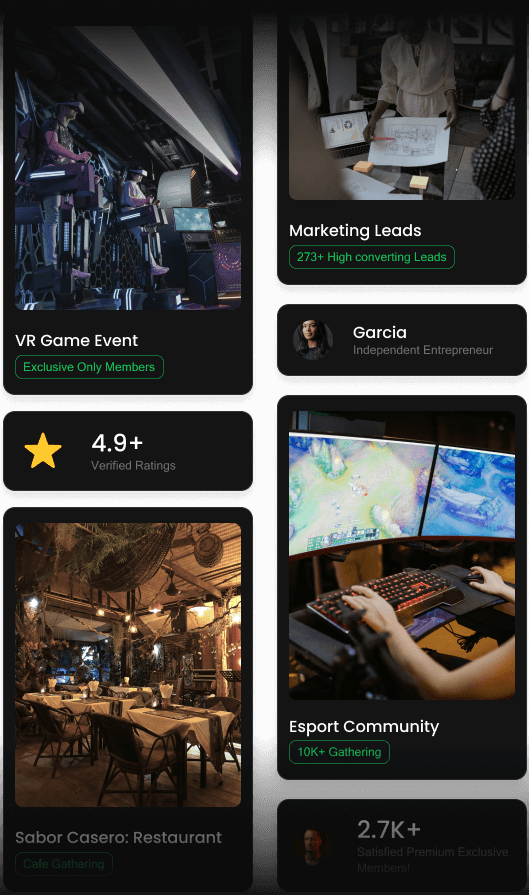
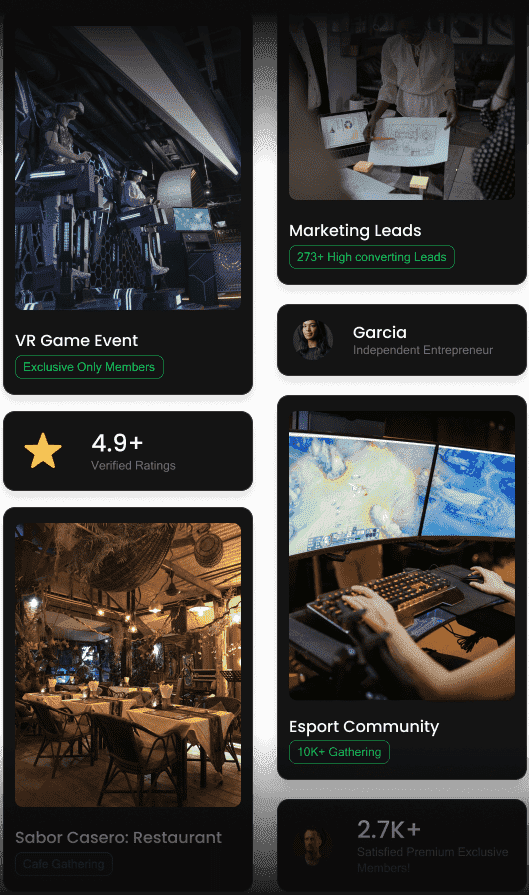
images

diff --git a/react-webapp/src/components/ImagesSection.jsx b/react-webapp/src/components/ImagesSection.jsx
@@ -2,39 +2,42 @@ import React from 'react'
 import {Image1,Image2,Image3,Image4} from '../images'
 export default function ImagesSection() {
   return (
-    <div className="flex h-[80vh] flex-col md:flex-row stify-between gap-6 px-10">
-   <div>
-   <div className="shadow-lg border  border-gray-400 p-1 rounded-mdp-4 relative">
+    <div className="flex flex-col lg:flex-row stify-between gap-6 px-10">
+   {/* <div> */}
+   <div className="shadow-lg   p-1 rounded-md relative">
       <div className="absolute bottom-0 left-0 bg-black bg-opacity-75 p-2 z-10">
-        <h1 className="text-md  font-bold ml-3">Embrace the Experience</h1>
+        <h1 className="text-md font-bold ml-3">Embrace the Experience</h1>
         <p className='p-2 font-sans text-[13px]'>
-        Join us for intellectual conversations in our exclusive chat rooms and memorable annual events. Start your journey with Exclusive Room today and step into a world of glamour, intellect, and unforgettable experiences.
+          Join us for intellectual conversations in our exclusive chat rooms and memorable annual events. Start your journey with Exclusive Room today and step into a world of glamour, intellect, and unforgettable experiences.
         </p>
       </div>
-      <img src={Image1} className='border h-full w-full border-gray-500 shadow-2xl rounded-xl' />
+      <div className="lg:w-[450px] h-full">
+        <img src={Image1} className=" h-full drop-shadow-2xl object-cover rounded-2xl" />
+      </div>
     </div>
-   </div>
-    <div className="">
-      <div className="shadow-lg border border-gray-400 p-1 rounded-md relative mb-4">
+   {/* </div> */}
+    <div className="  ">
+   
+       <div className="shadow-lg  p-1 rounded-md relative mb-4">
         <div className="absolute bottom-0 left-0 bg-black bg-opacity-75 p-2 z-10">
         <p className='p-2 font-sans text-[13px]'>
         Our platform promises state-of-the-art security and an easy-to-navigate design. You can converse freely and fearlessly, assured that your information and privacy stay well-protected.
         </p>
         </div>
 
-        <img src={Image3} className="rounded-lg" />
-      </div>
-      <div className="shadow-lg border border-gray-400 p-1 rounded-md  relative">
+        <img src={Image3} className="rounded-lg " />
+      </div> 
+    <div className="shadow-lg  p-1 rounded-2xl  relative">
         <div className="absolute bottom-0 left-0 bg-black bg-opacity-75 p-2 z-10">
         <p className='p-2 font-sans text-[13px]'>
         We understand how important it is to stay connected and grow. Our platform allows you to meet with individuals from various backgrounds and industries, providing avenues for networking and knowledge sharing.
         </p>
         
         </div>
-        <img src={Image2} className="filter grayscale rounded-lg" />
-      </div>
+        <img src={Image2} className="object-cover filter grayscale rounded-2xl" />
+     </div>
     </div>
-    <div className="shadow-lg border border-gray-400 p-1 rounded-lg relative">
+    <div className="shadow-lg p-1 rounded-lg relative">
       <div className="absolute bottom-0 left-0 bg-black bg-opacity-75 p-2 z-10">
         <h1 className="text-lg font-bold ml-2">
           The Grandeur of Our Annual Events
@@ -43,7 +46,7 @@ export default function ImagesSection() {
         In this exclusive club, we don’t just stop at chats. Exclusive Room holds an annual event, giving you an opportunity to engage in a delightful blend of entertainment and learning with individuals from across the world.
         </p>
       </div>
-      <img src={Image4} />
+      <img src={Image4} className='rounded-2xl'  />
     </div>
   </div>
   )

diff --git a/react-webapp/src/components/HeroSection.jsx b/react-webapp/src/components/HeroSection.jsx
@@ -1,8 +1,6 @@
 import React from 'react'
 import {FiverStars,Avatargroup, nextIcons,arrowIcon, fram1Image,fram2Image,monyImage} from '../images'
 import { AnimatedTooltip } from "../components/ui/animated-tooltip";
-import { DirectionAwareHover } from "../components/ui/direction-aware-hover";
-
 
 
 import {   FiverStars1,
@@ -10,7 +8,6 @@ import {   FiverStars1,
   FiverStars3,
   FiverStars4,
   FiverStars5,FiverStars6} from '../images'
-import { TypewriterEffectSmooth } from './ui/typewriter-effect';
 
 
 
@@ -64,21 +61,6 @@ const people = [
 
 
 
-  const words = [
-    {
-      text: "Different",
-      className: "text-white text-5xl md:text-7xl font-bold mb-4",
-
-    },
-    {
-      text: "Social",
-      className: "text-white text-5xl md:text-7xl font-bold mb-4",
-
-    },
-
-  ];
- 
-
 
 
 export default function HeroSection() {
@@ -97,8 +79,7 @@ export default function HeroSection() {
       <div className="bg-gray-800 opacity-40"></div>
     </div>
     <div className="container mx-auto px-4 py-20 md:w-1/2 z-20">
-    <TypewriterEffectSmooth cursorClassName={" bg-white"} words={words} />
-      {/* <h1 className="text-7xl font-bold mb-4">Different Social</h1> */}
+      <h1 className="text-white text-5xl md:text-7xl font-bold mb-4">Different Social</h1>
       <h2 className="text-xl mb-6">
         Quest, Connect & Earn:
         <span className="font-semibold text-gray-400">An Exclusive Club</span>
